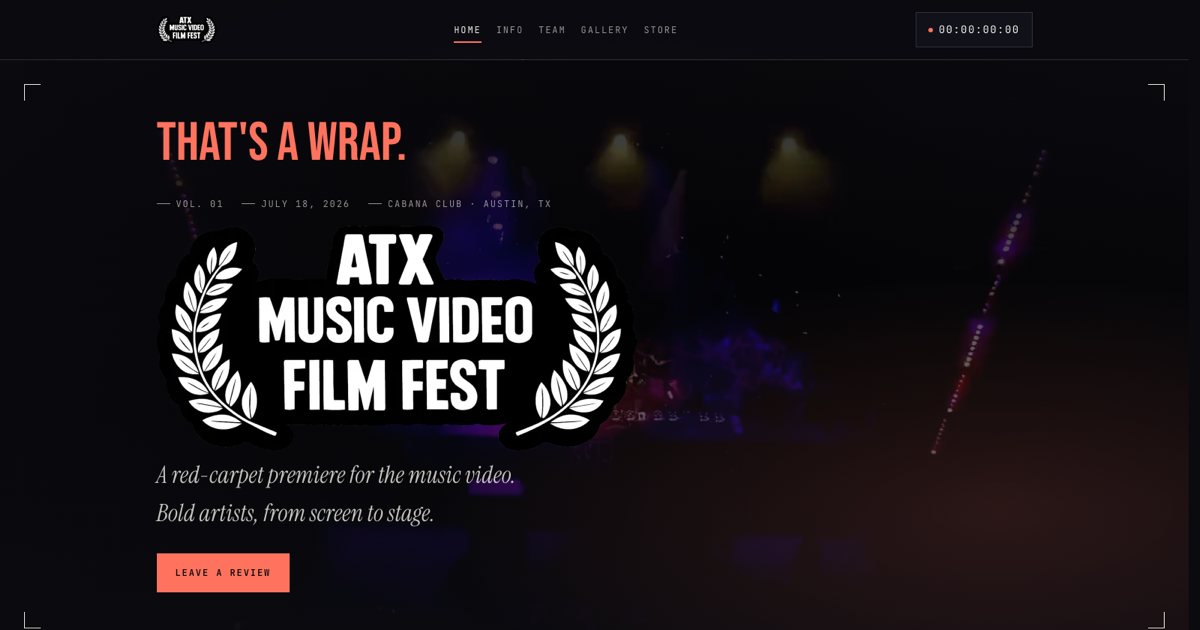
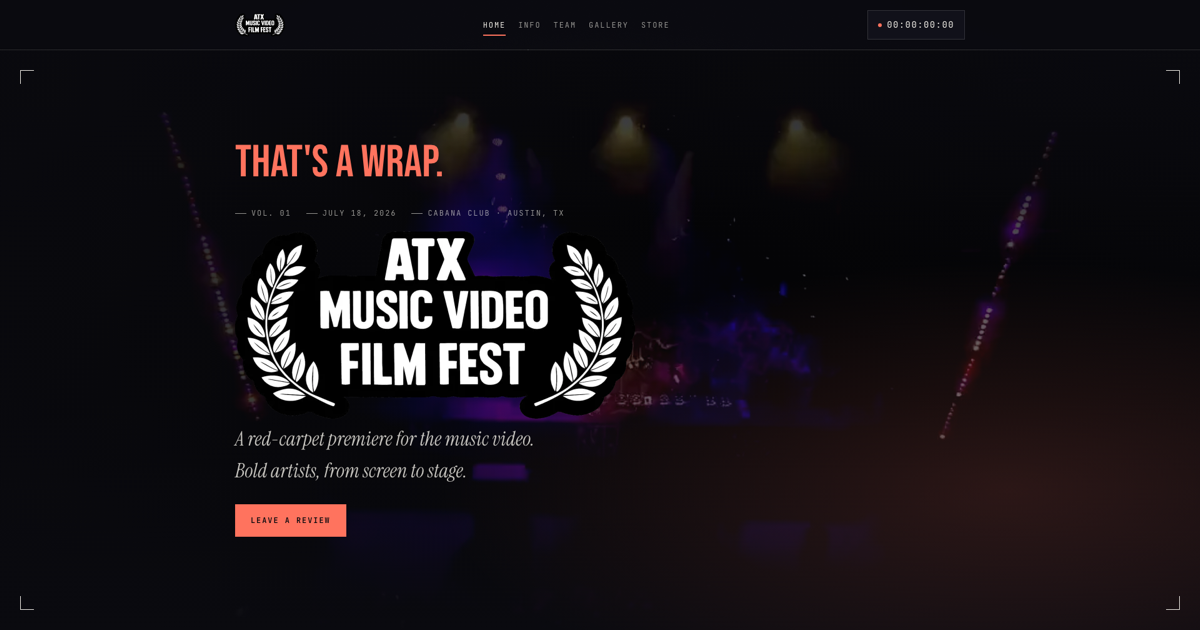
chore: maintain

diff --git a/astro.config.ts b/astro.config.ts
@@ -3,7 +3,7 @@ import react from '@astrojs/react';
 import robots from 'astro-robots-txt';
 import sitemap from '@astrojs/sitemap';
 import tailwind from '@tailwindcss/vite';
-import { defineConfig } from 'astro/config';
+import { defineConfig, fontProviders } from 'astro/config';
 
 export default defineConfig({
     adapter: netlify(),
@@ -13,6 +13,37 @@ export default defineConfig({
     devToolbar: {
         enabled: false,
     },
+    fonts: [
+        {
+            cssVariable: '--font-bebas-neue',
+            display: 'block',
+            name: 'Bebas Neue',
+            provider: fontProviders.fontsource(),
+            styles: ['normal'],
+            subsets: ['latin'],
+            weights: [400],
+        },
+        {
+            cssVariable: '--font-instrument-serif',
+            display: 'block',
+            fallbacks: ['Georgia', 'serif'],
+            name: 'Instrument Serif',
+            provider: fontProviders.fontsource(),
+            styles: ['normal', 'italic'],
+            subsets: ['latin'],
+            weights: [400],
+        },
+        {
+            cssVariable: '--font-jetbrains-mono',
+            display: 'block',
+            fallbacks: ['Courier New', 'monospace'],
+            name: 'JetBrains Mono',
+            provider: fontProviders.fontsource(),
+            styles: ['normal'],
+            subsets: ['latin'],
+            weights: [400, 600],
+        },
+    ],
     integrations: [
         react(),
         robots(),

diff --git a/tests/unit/middleware.test.ts b/tests/unit/middleware.test.ts
@@ -65,7 +65,7 @@ describe('onRequest', () => {
         const { context, rewrite } = createContext('/api/health');
 
         const next: MiddlewareNext = vi.fn(async () => {
-            throw new Error('boom');
+            throw new Error('Boom.');
         });
 
         const response = await onRequest(context, next) as Response;
@@ -73,7 +73,7 @@ describe('onRequest', () => {
         expect(response).toBeInstanceOf(Response);
         expect(response.status).toBe(500);
 
-        await expect(response.json()).resolves.toEqual({ error: 'Internal server error' });
+        await expect(response.json()).resolves.toEqual({ error: 'Internal server error.' });
 
         expect(rewrite).not.toHaveBeenCalled();
     });
@@ -82,7 +82,7 @@ describe('onRequest', () => {
         const { context, rewrite, rewritten } = createContext('/gallery');
 
         const next: MiddlewareNext = vi.fn(async () => {
-            throw new Error('boom');
+            throw new Error('Boom.');
         });
 
         const response = await onRequest(context, next);

diff --git a/tests/integration/Loader.test.ts b/tests/integration/Loader.test.ts
@@ -14,7 +14,7 @@ describe('Loader', () => {
     });
 
     test('renders the overlay as a status region that starts closed and hidden from assistive tech', () => {
-        expect(html).toContain('<div class="loader fixed flex inset-0 items-center justify-center z-300 bg-night" aria-hidden="true" aria-label="Loading" role="status"');
+        expect(html).toContain('<div class="loader fixed flex inset-0 items-center justify-center z-300 bg-night" aria-hidden="true" aria-label="Loading." role="status"');
         expect(html).not.toMatch(/<div class="loader [^>]*data-open/);
     });
 

diff --git a/tests/e2e/status.test.ts b/tests/e2e/status.test.ts
@@ -41,7 +41,7 @@ test.describe('api', () => {
 
         const body: Record<string, unknown> = await response.json();
 
-        expect(body.error).toBe('Not found');
+        expect(body.error).toBe('Not found.');
     });
 
     test('returns a json 404 for an unknown api path on post', async ({ request }) => {
@@ -52,6 +52,6 @@ test.describe('api', () => {
 
         const body: Record<string, unknown> = await response.json();
 
-        expect(body.error).toBe('Not found');
+        expect(body.error).toBe('Not found.');
     });
 });

diff --git a/src/global.css b/src/global.css
@@ -21,18 +21,9 @@
     --color-night-90: #0a0a0fe6;
     --color-slate: #1a1a25;
     --color-teal: #00d1ef;
-    --font-display:
-        'Bebas Neue',
-        'Helvetica Neue',
-        sans-serif;
-    --font-mono:
-        'JetBrains Mono',
-        ui-monospace,
-        monospace;
-    --font-serif:
-        'Instrument Serif',
-        Georgia,
-        serif;
+    --font-display: var(--font-bebas-neue);
+    --font-mono: var(--font-jetbrains-mono);
+    --font-serif: var(--font-instrument-serif);
 }
 
 :root {

diff --git a/src/middleware.ts b/src/middleware.ts
@@ -12,7 +12,7 @@ export const onRequest = defineMiddleware(async (context, next) => {
 
         return response;
     } catch {
-        if (isApi) return Response.json({ error: 'Internal server error' }, { status: 500 });
+        if (isApi) return Response.json({ error: 'Internal server error.' }, { status: 500 });
 
         return context.rewrite('/500');
     }

diff --git a/tests/e2e/prod.test.ts b/tests/e2e/prod.test.ts
@@ -105,6 +105,6 @@ test.describe('production api', () => {
         expect(response.status()).toBe(404);
         expect(response.headers()['content-type']).toContain('application/json');
 
-        expect(await response.json()).toEqual({ error: 'Not found' });
+        expect(await response.json()).toEqual({ error: 'Not found.' });
     });
 });

diff --git a/tests/integration/apiPath.test.ts b/tests/integration/apiPath.test.ts
@@ -33,7 +33,7 @@ describe('api path', () => {
 
         const result: Record<string, unknown> = await response.json();
 
-        expect(result).toEqual({ error: 'Not found' });
+        expect(result).toEqual({ error: 'Not found.' });
     });
 
     test('sets a json content type header', async () => {

diff --git a/src/pages/api/[...path].ts b/src/pages/api/[...path].ts
@@ -2,4 +2,4 @@ import type { APIRoute } from 'astro';
 
 export const prerender = false;
 
-export const ALL: APIRoute = () => Response.json({ error: 'Not found' }, { status: 404 });
+export const ALL: APIRoute = () => Response.json({ error: 'Not found.' }, { status: 404 });
